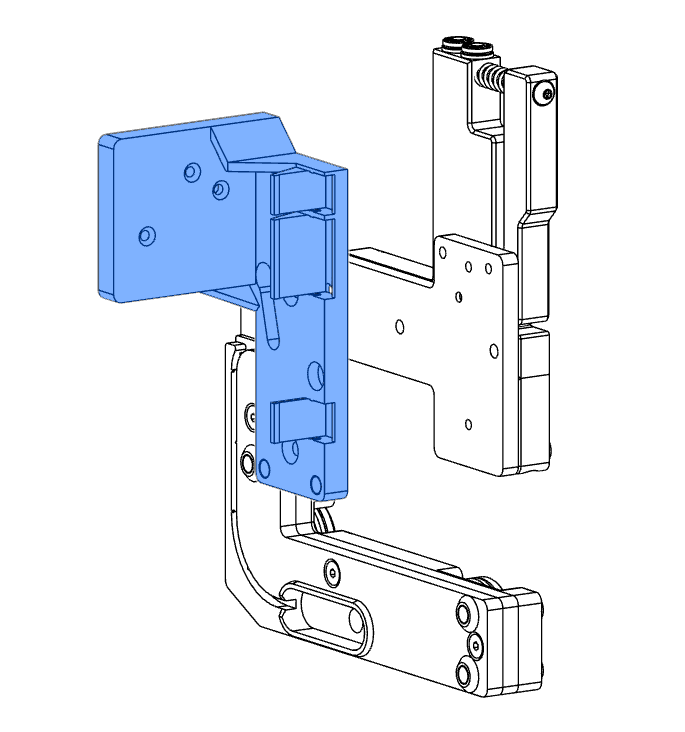
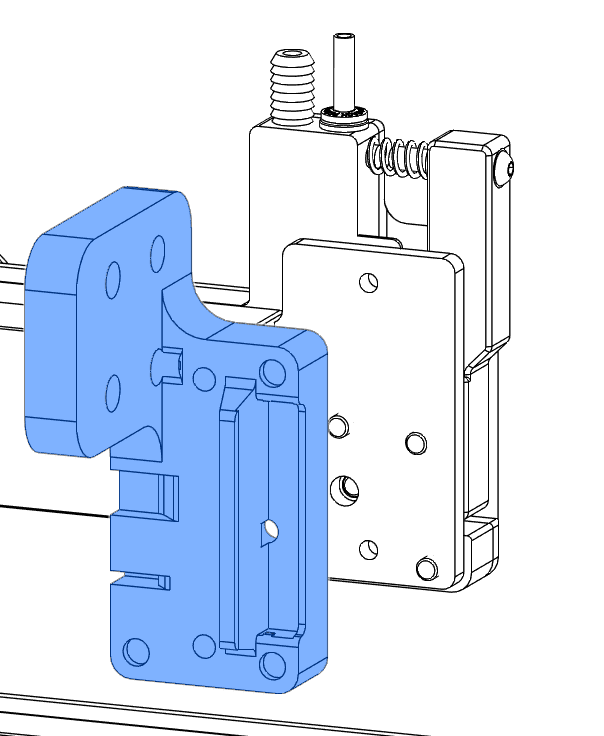
Back mounting images added and fixed

diff --git a/docs/wire-tool-v1.1/user-manual/index.md b/docs/wire-tool-v1.1/user-manual/index.md
@@ -310,50 +310,26 @@ Requires:
 ![Back_Lower_Base_Assm](images/ASSM_Back_Lower_Base_3.png)
 ![Back_Lower_Base_Assm](images/ASSM_Back_Lower_Base_4.png)
 ![Back_Lower_Base_Assm](images/ASSM_Back_Lower_Base_5.png)
-
+![Back_Lower_Base_Assm](images/ASSM_Back_Lower_Base_6.png)
+![Back_Lower_Base_Assm](images/ASSM_Back_Lower_Base_7.png)
+![Back_Lower_Base_Assm](images/ASSM_Back_Lower_Base_8.png)
+![Back_Lower_Base_Assm](images/ASSM_Back_Lower_Base_9.png)
 
 ### Tool Mount
 Requires:
 - Tool Mount Print
-- M4x16 Countersunk Screw (3x)
+- M5x16 Screw (2x)
 - Wago 221-412 (4x)
 
 ![Tool_Mount_Assm](images/ASSM_Tool_Mount_1.png)
 ![Tool_Mount_Assm](images/ASSM_Tool_Mount_2.png)
+
+**NOTE.** The grounding wire ring terminal must be installed with the *lower M5x16 BHCS* at this point. It is important that you install the grounding stap on the lower position as that is the only hole on the endoskeleton that has not been anodized. An anodized layer will prevent grounding of the frame.
+
 ![Tool_Mount_Assm](images/ASSM_Tool_Mount_3.png)
 ![Tool_Mount_Assm](images/ASSM_Tool_Mount_4.png)
 ![Tool_Mount_Assm](images/ASSM_Tool_Mount_5.png)
 ![Tool_Mount_Assm](images/ASSM_Tool_Mount_6.png)
-
-### Spool Motor and Base
-Requires:
-- Motor Base Print
-- Motor Cover Print
-- 18RPM DC Motor
-- M3x8 Buttonhead Cap Screw (4x)
-- M4x16 Countersunk Screw
-
-![Motor_Mount_Assm](images/ASSM_Motor_Mount_1.png)
-![Motor_Mount_Assm](images/ASSM_Motor_Mount_2.png)
-![Motor_Mount_Assm](images/ASSM_Motor_Mount_3.png)
-![Motor_Mount_Assm](images/ASSM_Motor_Mount_4.png)
-![Motor_Mount_Assm](images/ASSM_Motor_Mount_5.png)
-![Motor_Mount_Assm](images/ASSM_Motor_Mount_6.png)
-
-**ALERT.** There is little thread engagement on screws for the following step. This is due to variation in production thickness of endoskeleton. Ensure motor is pressed tight against the endoskeleton during this step. Apply only *light force* when fastening screws. Loctite may be desirable.
-
-![Motor_Mount_Assm](images/ASSM_Motor_Mount_7.png)
-![Motor_Mount_Assm](images/ASSM_Motor_Mount_8.png)
-
-### Waste Spool
-Requires:
-- Waste Spool Print
-- M3x16 Countersunk Screw
-
-![Waste_Spool_Assm](images/ASSM_Waste_Spool_1.png)
-![Waste_Spool_Assm](images/ASSM_Waste_Spool_2.png)
-![Waste_Spool_Assm](images/ASSM_Waste_Spool_3.png)
-![Waste_Spool_Assm](images/ASSM_Waste_Spool_4.png)
 
 ## Wiring
 While simple, proper wiring of the WT-01 is critical. Ensure all of the following electrical connections are well secured. 
